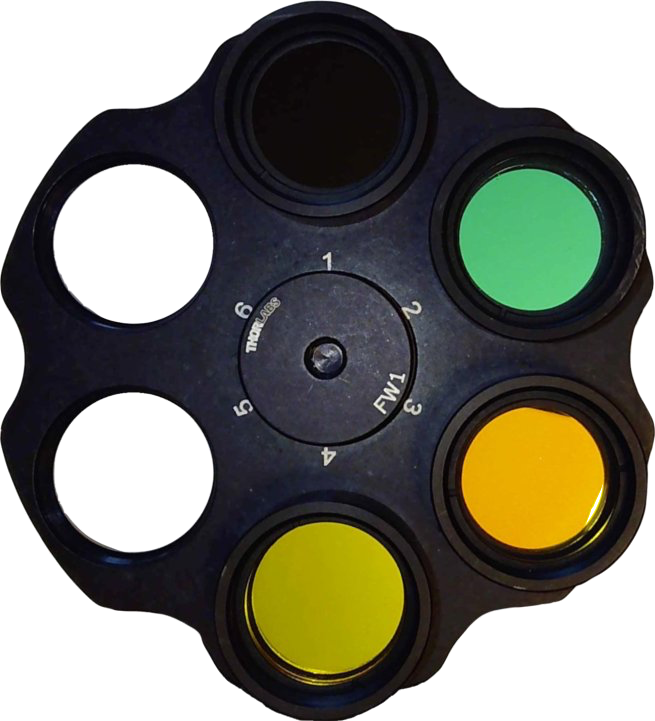
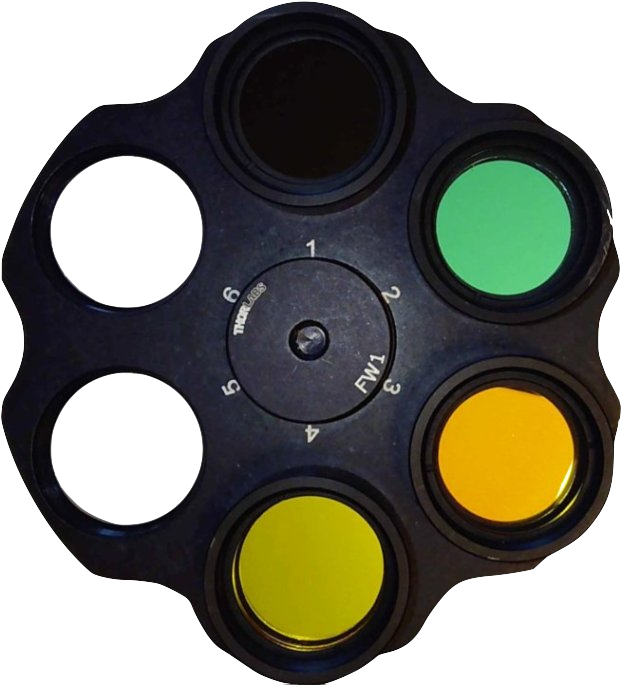
resized the image maps of the wheels

diff --git a/PhotoElectricEffect/static/js/main.js b/PhotoElectricEffect/static/js/main.js
@@ -107,36 +107,36 @@ window.addEventListener('DOMContentLoaded', function () {
     // var densityFilterwheel = document.getElementById('densityFilterWheel')
 
     // for Keithley 6514 Electrometer
-    var shift6514Button = document.getElementById('Shift6514');
-    var local6514Button = document.getElementById('Local6514');
-    var power6514Button = document.getElementById('Power6514');
-    var voltageButton = document.getElementById('Voltage');
-    var currentButton = document.getElementById('Current');
-    var resistanceButton = document.getElementById('Resistance');
-    var chargeButton = document.getElementById('Charge');
-    var externalFeedbackButton = document.getElementById('ExternalFeedback');
-    var zeroCheckButton = document.getElementById('ZeroCheck');
-    var zeroCorrectButton = document.getElementById('ZeroCorrect');
-    var groundButton = document.getElementById('Ground');
-    var averageButton = document.getElementById('Average');
-    var medianButton = document.getElementById('Median');
-    var relativeButton = document.getElementById('Relative');
-    var limitButton = document.getElementById('Limit');
-    var digits6514Button = document.getElementById('Digits6514');
-    var rate6514Button = document.getElementById('Rate6514');
-    var cursorLeft6514Button = document.getElementById('CursorLeft6514');
-    var cursorRight6514Button = document.getElementById('CursorRight6514');
-    var store6514Button = document.getElementById('Store6514');
-    var recall6514Button = document.getElementById('Recall6514');
-    var delayButton = document.getElementById('Delay');
-    var dampingButton = document.getElementById('Damping');
-    var haltButton = document.getElementById('Halt');
-    var trigger6514Button = document.getElementById('Trigger6514');
-    var exit6514Button = document.getElementById('Exit6514');
-    var enter6514Button = document.getElementById('Enter6514');
-    var upRange6514Button = document.getElementById('UpRange6514');
-    var downRange6514Button = document.getElementById('DownRange6514');
-    var autoRange6514Button = document.getElementById('AutoRange6514');
+    // var shift6514Button = document.getElementById('Shift6514');
+    // var local6514Button = document.getElementById('Local6514');
+    // var power6514Button = document.getElementById('Power6514');
+    // var voltageButton = document.getElementById('Voltage');
+    // var currentButton = document.getElementById('Current');
+    // var resistanceButton = document.getElementById('Resistance');
+    // var chargeButton = document.getElementById('Charge');
+    // var externalFeedbackButton = document.getElementById('ExternalFeedback');
+    // var zeroCheckButton = document.getElementById('ZeroCheck');
+    // var zeroCorrectButton = document.getElementById('ZeroCorrect');
+    // var groundButton = document.getElementById('Ground');
+    // var averageButton = document.getElementById('Average');
+    // var medianButton = document.getElementById('Median');
+    // var relativeButton = document.getElementById('Relative');
+    // var limitButton = document.getElementById('Limit');
+    // var digits6514Button = document.getElementById('Digits6514');
+    // var rate6514Button = document.getElementById('Rate6514');
+    // var cursorLeft6514Button = document.getElementById('CursorLeft6514');
+    // var cursorRight6514Button = document.getElementById('CursorRight6514');
+    // var store6514Button = document.getElementById('Store6514');
+    // var recall6514Button = document.getElementById('Recall6514');
+    // var delayButton = document.getElementById('Delay');
+    // var dampingButton = document.getElementById('Damping');
+    // var haltButton = document.getElementById('Halt');
+    // var trigger6514Button = document.getElementById('Trigger6514');
+    // var exit6514Button = document.getElementById('Exit6514');
+    // var enter6514Button = document.getElementById('Enter6514');
+    // var upRange6514Button = document.getElementById('UpRange6514');
+    // var downRange6514Button = document.getElementById('DownRange6514');
+    // var autoRange6514Button = document.getElementById('AutoRange6514');
 
     //for Keithley 2000 Multimeter
     var shift2000Button = document.getElementById('Shift2000');
@@ -299,16 +299,16 @@ window.addEventListener('DOMContentLoaded', function () {
                 if (target) {
                     target.innerHTML = `
                         <figure class="Device embed wheel">
-                            <img id="colorFilterWheel" src="static/imgs/FilterWheelScaled.png" usemap="#image-map-cfw" height= 45% width=45%>
+                            <img id="colorFilterWheel" src="static/imgs/FilterWheelScaled.png" usemap="#image-map-cfw" height="478" width="434">
                             <map name="image-map-cfw">
-                                <area id="f365" href="#" title="365 nm" coords="325,115,74" shape="circle">
-                                <area id="f436" href="#" title="436 nm" coords="528,236,72" shape="circle">
-                                <area id="f546" href="#" title="546 nm" coords="535,480,72" shape="circle">
-                                <area id="f577" href="#" title="577 nm" coords="325,600,74" shape="circle">
+                                <area id="f365" href="#" title="365 nm" coords="310,107,68" shape="circle">
+                                <area id="f436" href="#" title="436 nm" coords="505,228,67" shape="circle">
+                                <area id="f546" href="#" title="546 nm" coords="507,455,69" shape="circle">
+                                <area id="f577" href="#" title="577 nm" coords="312,568,72" shape="circle">
                             </map>   
                         </figure>
                     `;
-                     $('#colorFilterWheel').mapster({
+                    $('#colorFilterWheel').mapster({
                         mapKey:'id',
                         fillColor: 'f5f5b5',
                         fillOpacity: 0.6,
@@ -361,85 +361,85 @@ window.addEventListener('DOMContentLoaded', function () {
             width: 84,
             toolDirection: "Click on a filter to rotate it into position.",
             render: () => {
-                    const target = document.getElementById("tool-interactive-area");
-                    if (target) {
-                        target.innerHTML = `
-                            <figure class="Device embed wheel">
-                            <img id="densityFilterWheel" src="static/imgs/densityFilterWheelScaledCropped.png" usemap="#image-map-dfw" height= 50% width=50%></center>
-                                <map name="image-map-dfw">
-                                    <area id="nd00" href="#" title="OPEN" coords="312,122,67"  shape="circle">
-                                    <area id="nd03" href="#" title="ND 0.3" coords="494,235,67"  shape="circle">
-                                    <area id="nd05" href="#" title="ND 0.5" coords="496,448,65"  shape="circle">
-                                    <area id="nd10" href="#" title="ND 1.0" coords="312,558,68"  shape="circle">
-                                    <area id="nd20" href="#" title="ND 2.0" coords="139,442,70"  shape="circle">
-                                    <area id="nd40" href="#" title="ND 4.0" coords="140,240,74"  shape="circle">
-                                </map>
-                            </figure>
-                        `;
-                       $('#densityFilterWheel').mapster({
-                            mapKey:'id',
-                            fillColor: 'f5f5b5',
-                            fillOpacity: 0.6,
-                            render_select: { 
-                                fillOpacity: 0.3
-                            },
-                            singleSelect: true
-                        }).parent().css({"margin":"0 auto"});
-                    }
+                const target = document.getElementById("tool-interactive-area");
+                if (target) {
+                    target.innerHTML = `
+                        <figure class="Device embed wheel">
+                        <img id="densityFilterWheel" src="static/imgs/densityFilterWheelScaledCropped.png" usemap="#image-map-dfw" height="478" width="434"></center>
+                            <map name="image-map-dfw">
+                                <area id="nd00" href="#" title="OPEN" coords="312,122,67"  shape="circle">
+                                <area id="nd03" href="#" title="ND 0.3" coords="494,235,67"  shape="circle">
+                                <area id="nd05" href="#" title="ND 0.5" coords="496,448,65"  shape="circle">
+                                <area id="nd10" href="#" title="ND 1.0" coords="312,558,68"  shape="circle">
+                                <area id="nd20" href="#" title="ND 2.0" coords="139,442,70"  shape="circle">
+                                <area id="nd40" href="#" title="ND 4.0" coords="140,240,74"  shape="circle">
+                            </map>
+                        </figure>
+                    `;
+                    $('#densityFilterWheel').mapster({
+                        mapKey:'id',
+                        fillColor: 'f5f5b5',
+                        fillOpacity: 0.6,
+                        render_select: { 
+                            fillOpacity: 0.3
+                        },
+                        singleSelect: true
+                    }).parent().css({"margin":"0 auto"});
+                }
 
-                    var nd00 = document.getElementById('nd00');
-                    var nd03 = document.getElementById('nd03');
-                    var nd05 = document.getElementById('nd05');
-                    var nd10 = document.getElementById('nd10');
-                    var nd20 = document.getElementById('nd20');
-                    var nd40 = document.getElementById('nd40');
-                    var densityFilterwheel = document.getElementById('densityFilterWheel')
+                var nd00 = document.getElementById('nd00');
+                var nd03 = document.getElementById('nd03');
+                var nd05 = document.getElementById('nd05');
+                var nd10 = document.getElementById('nd10');
+                var nd20 = document.getElementById('nd20');
+                var nd40 = document.getElementById('nd40');
+                var densityFilterwheel = document.getElementById('densityFilterWheel')
 
-                    nd00.addEventListener('click', function(event) {
-                        console.log("ND OPEN was clicked");
-                        event.stopPropagation();
-                        dataChannel.send("densityWheel/goto/0deg");
-                        // filterwheel.style.transform='rotate(0deg)';
-                        return false
-                    })
-                    nd03.addEventListener('click', function(event) {
-                        console.log("ND 0.3 was clicked");
-                        event.stopPropagation();
-                        dataChannel.send("densityWheel/goto/300deg");
-                        // filterwheel.style.transform='rotate(-30deg)';
-                        return false
-                    })
-                    nd05.addEventListener('click', function(event) {
-                        console.log("ND 0.5 was clicked");
-                        event.stopPropagation();
-                        dataChannel.send("densityWheel/goto/240deg");
-                        // filterwheel.style.transform='rotate(-60deg)';
-                        return false
-                    })
-                    nd10.addEventListener('click', function(event) {
-                        console.log("ND 1.0 was clicked");
-                        event.stopPropagation();
-                        dataChannel.send("densityWheel/goto/180deg");
-                        // filterwheel.style.transform='rotate(-90deg)';
-                        return false
-                    })
-                    nd20.addEventListener('click', function(event) {
-                        console.log("ND 2.0 was clicked");
-                        event.stopPropagation();
-                        dataChannel.send("densityWheel/goto/120deg");
-                        // filterwheel.style.transform='rotate(-90deg)';
-                        return false
-                    })
-                    nd40.addEventListener('click', function(event) {
-                        console.log("ND 4.0 was clicked");
-                        event.stopPropagation();
-                        dataChannel.send("densityWheel/goto/60deg");
-                        // filterwheel.style.transform='rotate(-90deg)';
-                        return false
-                    })
+                nd00.addEventListener('click', function(event) {
+                    console.log("ND OPEN was clicked");
+                    event.stopPropagation();
+                    dataChannel.send("densityWheel/goto/0deg");
+                    // filterwheel.style.transform='rotate(0deg)';
+                    return false
+                })
+                nd03.addEventListener('click', function(event) {
+                    console.log("ND 0.3 was clicked");
+                    event.stopPropagation();
+                    dataChannel.send("densityWheel/goto/300deg");
+                    // filterwheel.style.transform='rotate(-30deg)';
+                    return false
+                })
+                nd05.addEventListener('click', function(event) {
+                    console.log("ND 0.5 was clicked");
+                    event.stopPropagation();
+                    dataChannel.send("densityWheel/goto/240deg");
+                    // filterwheel.style.transform='rotate(-60deg)';
+                    return false
+                })
+                nd10.addEventListener('click', function(event) {
+                    console.log("ND 1.0 was clicked");
+                    event.stopPropagation();
+                    dataChannel.send("densityWheel/goto/180deg");
+                    // filterwheel.style.transform='rotate(-90deg)';
+                    return false
+                })
+                nd20.addEventListener('click', function(event) {
+                    console.log("ND 2.0 was clicked");
+                    event.stopPropagation();
+                    dataChannel.send("densityWheel/goto/120deg");
+                    // filterwheel.style.transform='rotate(-90deg)';
+                    return false
+                })
+                nd40.addEventListener('click', function(event) {
+                    console.log("ND 4.0 was clicked");
+                    event.stopPropagation();
+                    dataChannel.send("densityWheel/goto/60deg");
+                    // filterwheel.style.transform='rotate(-90deg)';
+                    return false
+                })
             }
         },
-        electrometer: { // TODO
+        electrometer: {
             name: 'Keithley Model 6514 System Electrometer',
             description: "The electrometer measures the photocurrent. The electrometer is an especially sophisticated instrument that can reliably detect fractions of a picoamp. (1pA = 10^−12 A)",
             width: 224,
@@ -448,7 +448,7 @@ window.addEventListener('DOMContentLoaded', function () {
                 const target = document.getElementById("tool-interactive-area");
                 if (target) {
                     target.innerHTML = `
-                        <figure class="Device embed meter">
+                        <figure class="Device embed">
                         <img id="electrometer" src="static/imgs/Keithley6514ElectrometerTXTleft.jpg" usemap="#image-map-6514"> 
                             <map name="image-map-6514">
                                 <area id="Shift6514" 		    href="#"	title="Shift" 		  coords="102,331,17" shape="circle">
@@ -525,7 +525,7 @@ window.addEventListener('DOMContentLoaded', function () {
                 var upRange6514Button = this.document.getElementById('upRange6514Button');
                 var downRange6514Button = this.document.getElementById('downRange6514Button');
                 var autoRange6514Button = this.document.getElementById('autoRange6514Button');                
-
+                var electrometer = document.getElementById('electrometer')
 
                 shift6514Button.addEventListener('click', function(event) {
                     //Prevent it from reloading

diff --git a/PhotoElectricEffect/static/js/jquery.imagemapster.js b/PhotoElectricEffect/static/js/jquery.imagemapster.js
@@ -4059,6 +4059,54 @@ A jQuery plugin to enhance image maps.
                 });
             });
         }
+//NEW CODE - dkf 250713 - doesn't seem to make a difference
+
+        // Resize the map to fit within the boundaries provided
+        var resizeTime = 100;     // total duration of the resize effect, 0 is instant
+        var resizeDelay = 100;    // time to wait before checking the window size again
+                                // the shorter the time, the more reactive it will be.
+                                // short or 0 times could cause problems with old browsers.
+
+        function resize(maxWidth,maxHeight) {
+            var image =  $('img'),
+                imgWidth = image.width(),
+                imgHeight = image.height(),
+                newWidth=0,
+                newHeight=0;
+
+            if (imgWidth/maxWidth>imgHeight/maxHeight) {
+                newWidth = maxWidth;
+            } else {
+                newHeight = maxHeight;
+            }
+            image.mapster('resize',newWidth,newHeight,resizeTime);   
+        }
+
+        // Track window resizing events, but only actually call the map resize when the
+        // window isn't being resized any more
+
+        function onWindowResize() {
+            
+            var curWidth = $('.content').width(),
+                curHeight = $('.content').height(),
+                checking=false;
+            if (checking) {
+                return;
+                    }
+            checking = true;
+            window.setTimeout(function() {
+                var newWidth = $('.content').width(),
+                newHeight = $('.content').height();
+                if (newWidth === curWidth &&
+                    newHeight === curHeight) {
+                    resize(newWidth,newHeight); 
+                }
+                checking=false;
+            },resizeDelay );
+        }
+
+        $(window).bind('resize',onWindowResize);
+//END NEW CODE
 
         if (me.scaleInfo.width === width && me.scaleInfo.height === height) {
             return;

diff --git a/PhotoElectricEffect/index.html b/PhotoElectricEffect/index.html
@@ -141,8 +141,8 @@
 
     <!-- PREVIOUS CODE -->
     
-    <!-- <div id="SideImagesLeft" class="column w-col w-col-2">
-      <figure class="Icon">
+  <div id="SideImagesLeft" class="column w-col w-col-2">
+       <!--  <figure class="Icon">
         (click to toggle the Hg-Ne lamp)<br>
         <img id="toggleSwitch" src="static/imgs/toggleSwitch.png" usemap="#image-map-ts">
         <map name="image-map-ts">
@@ -178,8 +178,8 @@
               <img id="i577"  class="filter_img" alt="Filter Transmission Spectrum" src="static/imgs/filter577.png" >
           </a><br>
           (click each for its transmission curve)
-      </figure>
-    </div>    -->
+      </figure>-->
+    </div>    
 
 
     <div id="SideImagesRight" class="column w-col w-col-2">
@@ -415,6 +415,16 @@
           //   },
           //   singleSelect: true
           // }).parent().css({"margin":"0 auto"});
+          
+          // $('#electrometer').mapster({
+          //   mapKey:'id',
+          //   fillColor: 'f5f5b5',
+          //   fillOpacity: 0.6,
+          //   render_select: { 
+          //       fillOpacity: 0.3
+          //   },
+          //   singleSelect: true
+          // }).parent().css({"margin":"0 auto"});
 
           $('#knob').mapster({
             mapKey:'id',
@@ -425,16 +435,6 @@
             },
             singleSelect: true
           }).parent().css({"margin":"0 auto"});
-
-          // $('#electrometer').mapster({
-          //   mapKey:'id',
-          //   fillColor: 'f5f5b5',
-          //   fillOpacity: 0.6,
-          //   render_select: { 
-          //       fillOpacity: 0.3
-          //   },
-          //   singleSelect: true
-          // }).parent().css({"margin":"0 auto"});
 
           $('#multimeter').mapster({
             mapKey:'id',

diff --git a/PhotoElectricEffect/static/css/styleGrid.css b/PhotoElectricEffect/static/css/styleGrid.css
@@ -90,7 +90,7 @@
         /* grid-column-end: 4; */
         /* grid-row-start: 4; */
         /* grid-row-end: 6; */
-        /* object-fit: contain; */
+        object-fit: contain; 
         /* align-self: center; */
         justify-self: center; 
     }
